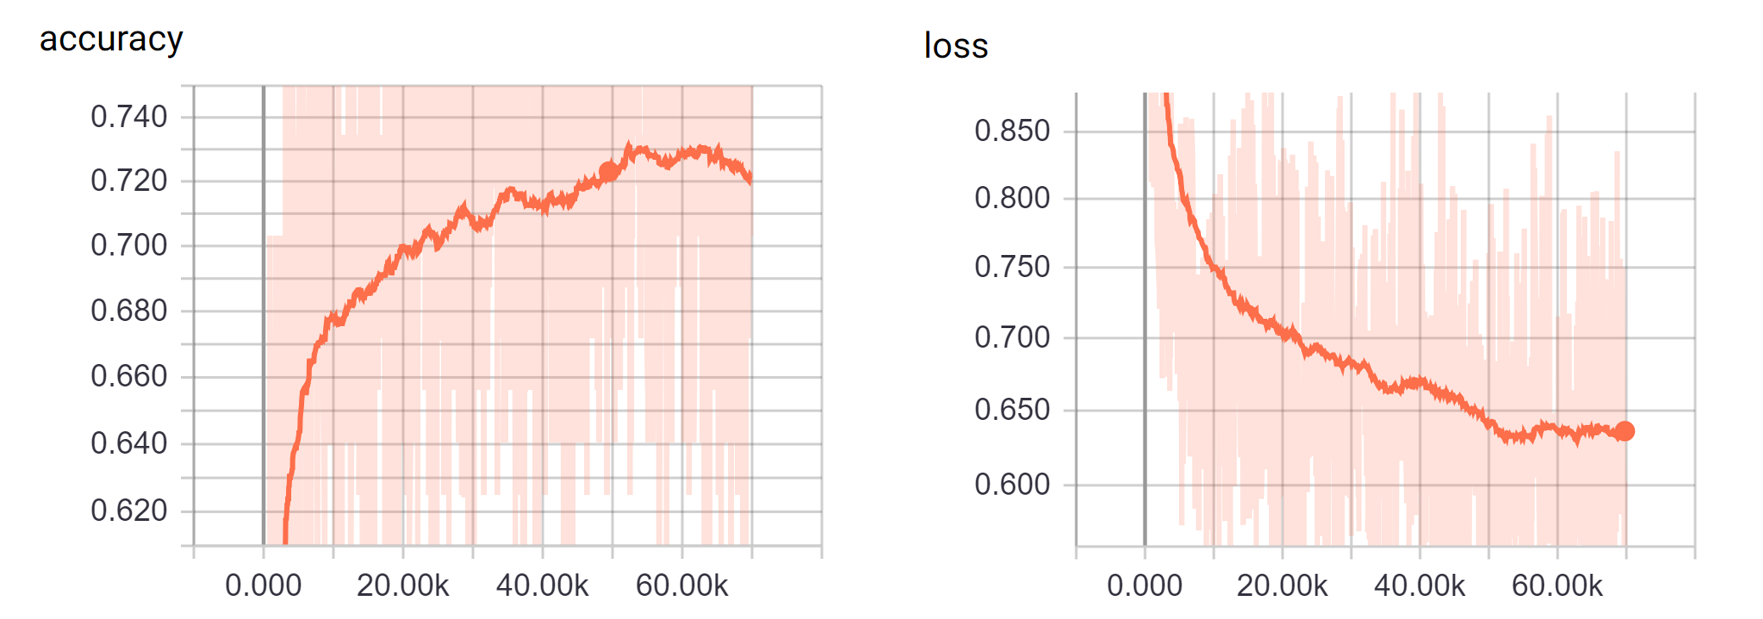
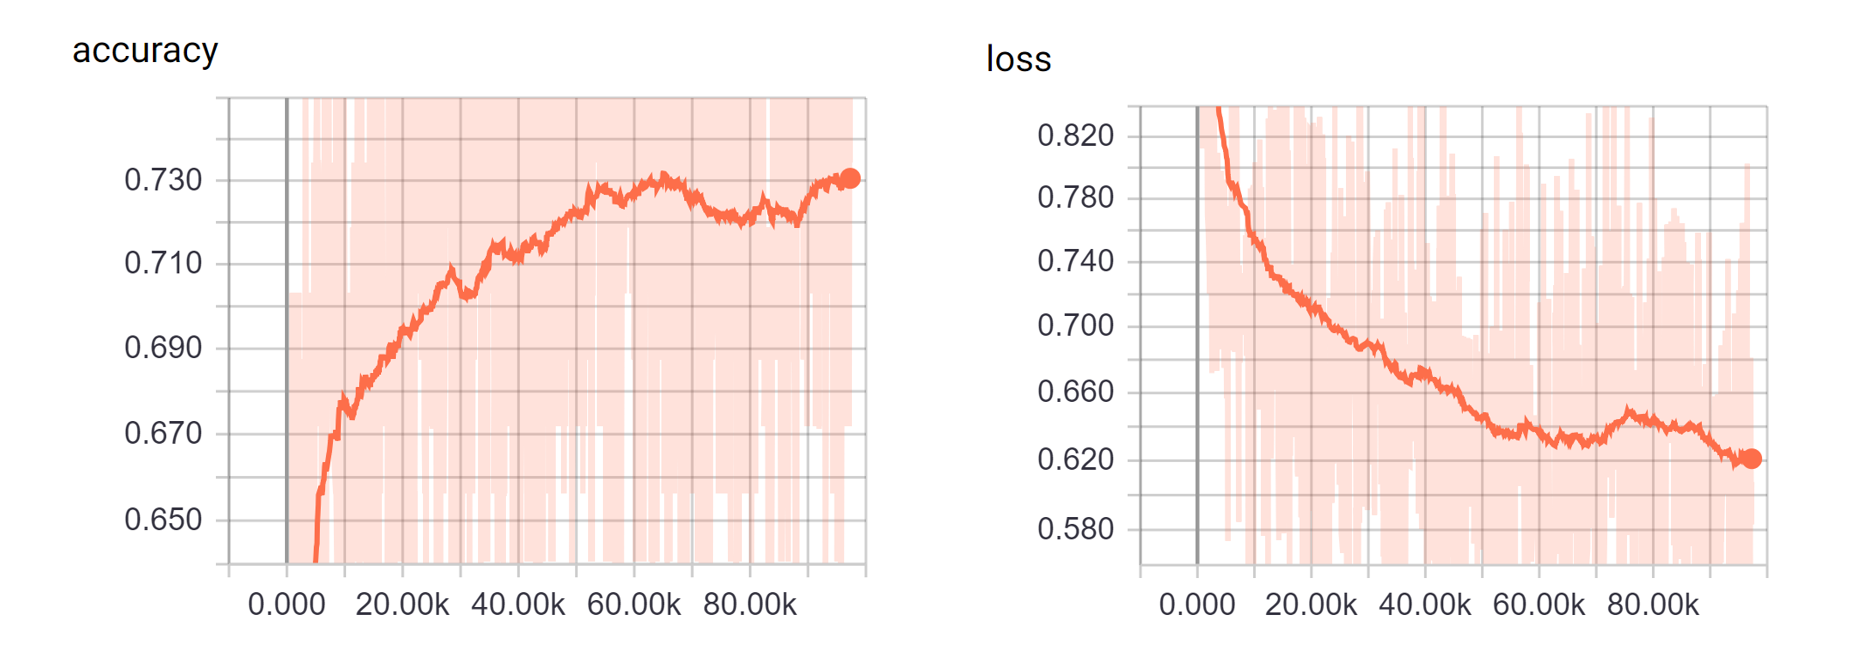
Update README.md

diff --git a/README.md b/README.md
@@ -22,7 +22,6 @@ We use the [data](http://ir.hit.edu.cn/~dytang/paper/emnlp2015/emnlp-2015-data.7
 - Yelp 2014
 - Yelp 2015
 
-
 ## Usage
 
 First, download the [datasets](#data) and unzip into `data` folder.
@@ -80,11 +79,11 @@ optional arguments:
 
 ## Results
 
-With *Yelp-2015* dataset, after 3 epochs, we achieve
+With the *Yelp-2015* dataset, after 5 epochs, we achieved:
 
-- **68.71%** accuracy on the *dev set*
-- **68.74%** accuracy on the *test set*
+- **69.11%** accuracy on the *dev set*
+- **69.14%** accuracy on the *test set*
 
-No systematic hyper-parameter tunning was performed.
+No systematic hyper-parameter tunning was performed. The result reported in the paper is **71.0%** for the *Yelp-2015*.
 
 ![alt tag](img/log.png)
